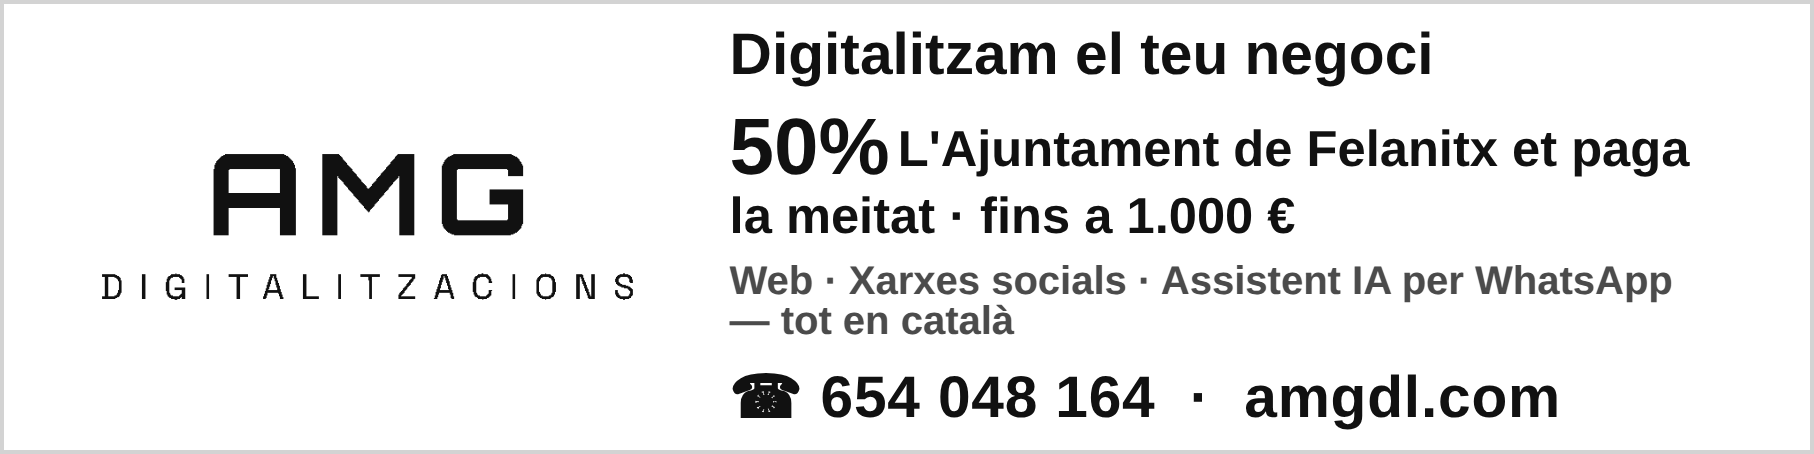
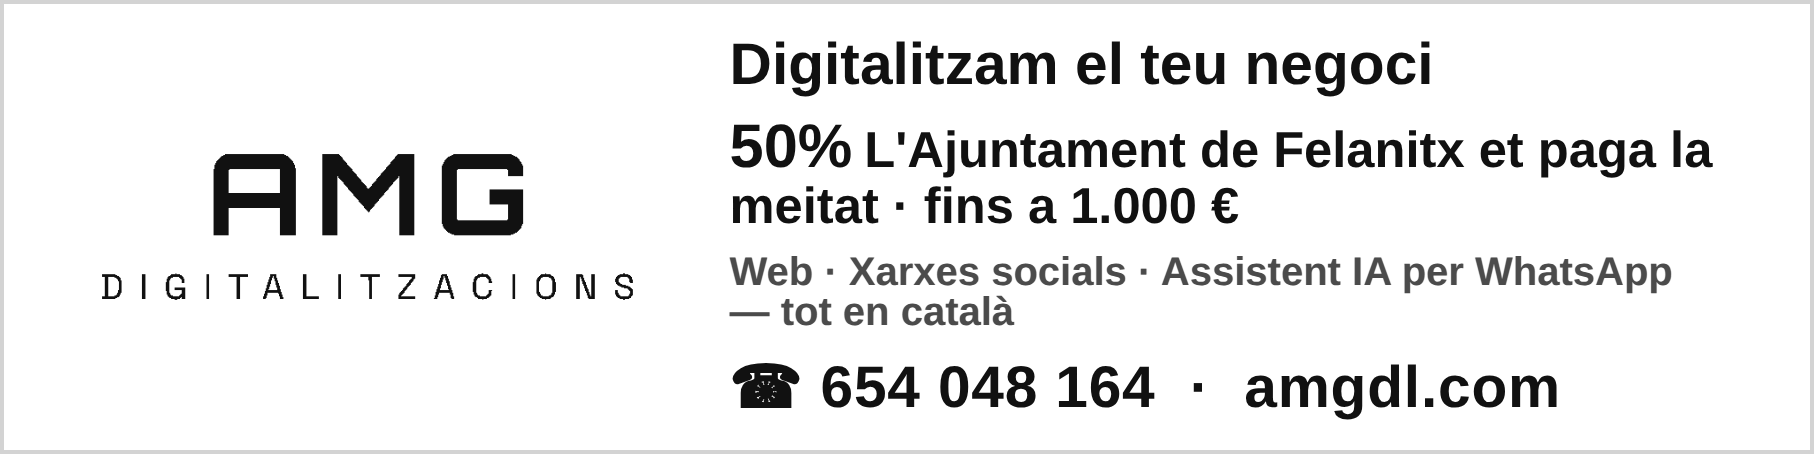
docs: anunci ajut — reduir mida del 50% perquè quedi proporcionat

diff --git a/docs/anunci-ajut-ajuntament-felanitx.html b/docs/anunci-ajut-ajuntament-felanitx.html
@@ -20,7 +20,7 @@
   .content { flex:1; text-align:left; color:var(--ink); display:flex; flex-direction:column; gap:1.3mm; }
   .claim { font-size:11pt; font-weight:800; line-height:1; }
   .hook { font-size:9.5pt; font-weight:700; line-height:1.05; }
-  .hook .big { font-size:15pt; font-weight:900; vertical-align:-2px; margin-right:2px; }
+  .hook .big { font-size:11.5pt; font-weight:900; margin-right:3px; }
   .serveis { font-size:7.5pt; font-weight:700; color:var(--gray); line-height:1; }
   .contact { font-size:11pt; font-weight:800; letter-spacing:.2px; line-height:1; margin-top:.5mm; }
   .contact .web { font-weight:700; }
